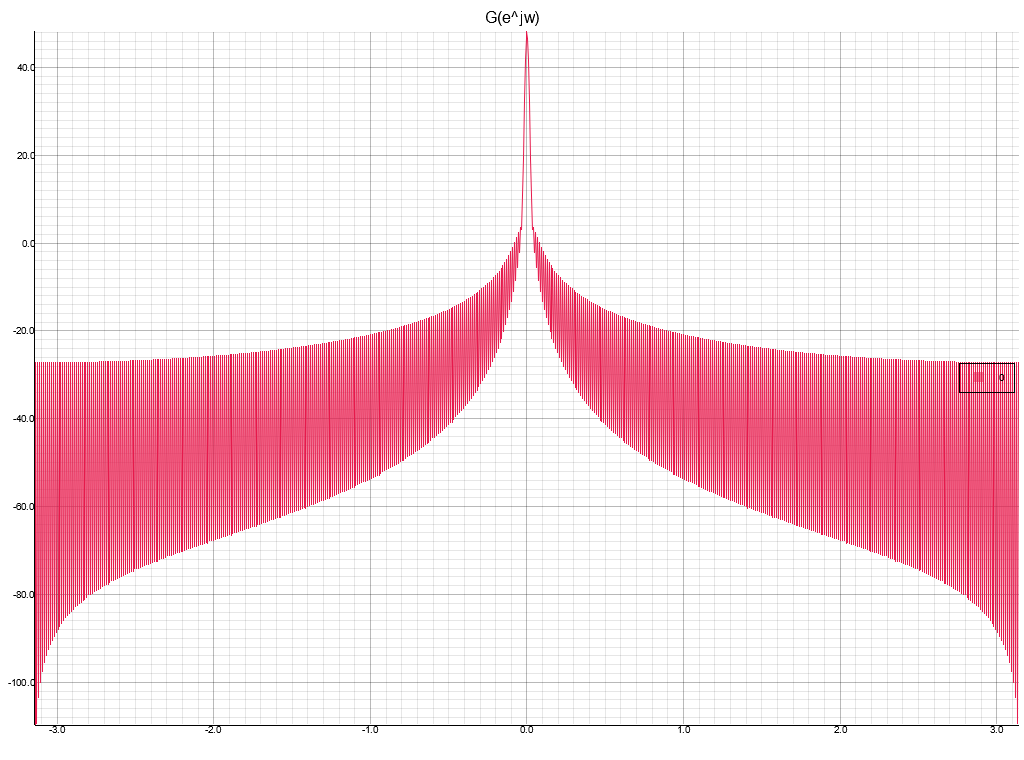
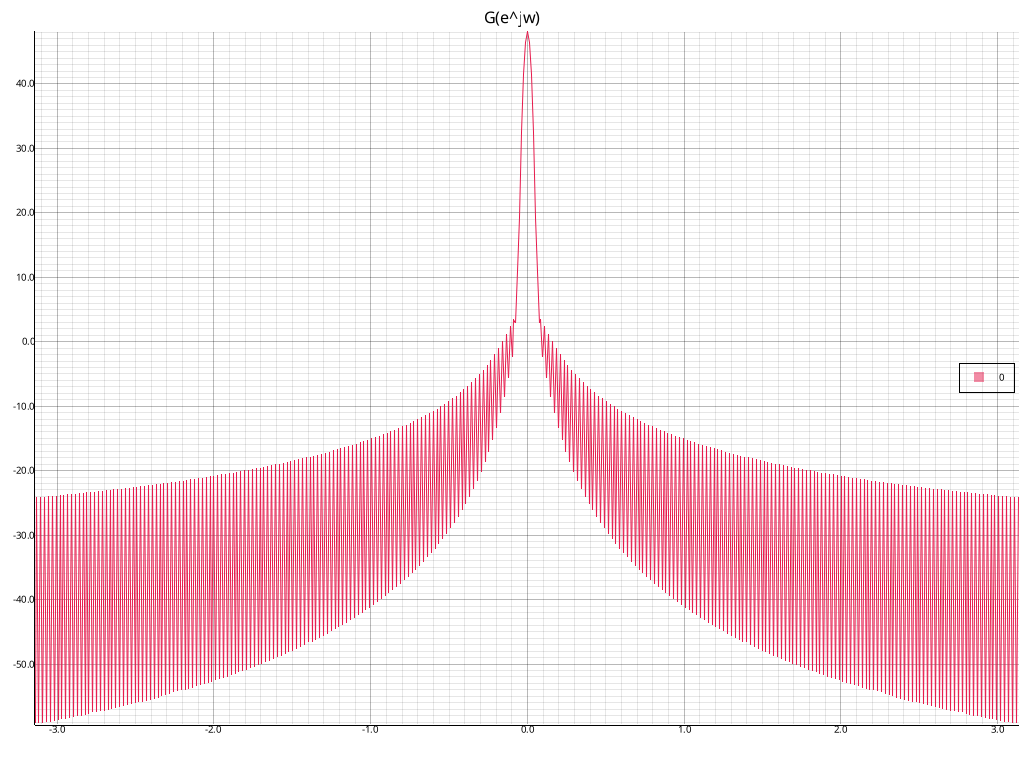
Add gaussian window

diff --git a/signal_processing-windows/src/windows/gaussian.rs b/signal_processing-windows/src/windows/gaussian.rs
@@ -1,10 +1,9 @@
+use array_trait::length::Length;
+use num_traits::{Float, FloatConst, Zero};
 
+use crate::{Shape, WindowFn};
 
-use array_math::ArrayOps;
-use num::{traits::FloatConst, Float};
-
-use crate::generators::window::{WindowGen, WindowRange};
-
+#[derive(Clone, Copy)]
 pub struct Gaussian<T>
 where
     T: Float
@@ -12,89 +11,43 @@ where
     pub sigma: T
 }
 
-impl<T, const N: usize> WindowGen<T, [T; N], ()> for Gaussian<T>
+impl<L, T> WindowFn<L> for Gaussian<T>
 where
+    L: Length<Elem = T> + ?Sized,
     T: Float + FloatConst
 {
-    type Output = [T; N];
+    type Functor = impl Fn(usize) -> T;
 
-    fn window_gen(&self, (): (), r: WindowRange) -> Self::Output
+    fn window_fn(self, len: L::Value, range: Shape) -> Self::Functor
     {
-        if N <= 1
-        {
-            return [T::one(); N]
-        }
-
-        let m = match r
-        {
-            WindowRange::Symmetric => N - 1,
-            WindowRange::Periodic => N,
-        };
+        let m = range.window_len(len);
 
         let one = T::one();
         let two = one + one;
         let half = two.recip();
-        core::array::from_fn(|i| {
-            let z = (T::from(i).unwrap() - half*T::from(N - 1).unwrap())/(self.sigma*half*T::from(m).unwrap());
-            (-half*z*z).exp()
-        })
-    }
-}
-impl<T> WindowGen<T, Vec<T>, usize> for Gaussian<T>
-where
-    T: Float + FloatConst
-{
-    type Output = Vec<T>;
 
-    fn window_gen(&self, n: usize, r: WindowRange) -> Self::Output
-    {
-        if n <= 1
-        {
-            return vec![T::one(); n]
+        move |i| {
+            if m.is_zero()
+            {
+                return T::one()
+            }
+
+            let z = (T::from(i).unwrap() - half*T::from(m - 1).unwrap())/(self.sigma*half*T::from(m).unwrap());
+            (-half*z*z).exp()
         }
-
-        let m = match r
-        {
-            WindowRange::Symmetric => n - 1,
-            WindowRange::Periodic => n,
-        };
-
-        let one = T::one();
-        let two = one + one;
-        let half = two.recip();
-        (0..n).map(|i| {
-            let z = (T::from(i).unwrap() - half*T::from(n - 1).unwrap())/(self.sigma*half*T::from(m).unwrap());
-            (-half*z*z).exp()
-        }).collect()
     }
 }
 
 #[cfg(test)]
 mod test
 {
-    use core::f64::consts::{PI, TAU};
-
-    use array_math::ArrayOps;
-    use linspace::Linspace;
-
-    use crate::{plot, gen::window::{WindowGen, WindowRange}, analysis::FreqZ, systems::Tf};
-
-    use super::Gaussian;
+    use crate::{tests, windows::Gaussian};
 
     #[test]
     fn test()
     {
-        const N: usize = 1024;
-        let w: [_; N/2] = Gaussian {sigma: 0.4}.window_gen((), WindowRange::Symmetric);
-        let n = (0.0..1.0).linspace_array();
-
-        plot::plot_curves("g(n/N)", "plots/windows/g_n_gaussian.png", [&n.zip(w)]).unwrap();
-
-        let (mut w_f, mut omega): ([_; N], _) = Tf::new(w, ()).freqz((), false);
-        omega.map_assign(|omega| (omega + PI) % TAU - PI);
-        w_f.rotate_right(N/2);
-        omega.rotate_right(N/2);
-        
-        plot::plot_curves("G(e^jw)", "plots/windows/g_f_gaussian.png", [&omega.zip(w_f.map(|w| 20.0*w.norm().log10()))]).unwrap();
+        tests::plot_window(Gaussian {
+            sigma: 0.4
+        })
     }
 }

diff --git a/signal_processing-windows/src/windows/mod.rs b/signal_processing-windows/src/windows/mod.rs
@@ -9,9 +9,9 @@ moddef::moddef!(
         confined_gaussian,
         confined_normal,
         dolph_chebyshev,
-        flattop,
-        /*gaussian,
-        hamming,
+        flat_top,
+        gaussian,
+        /*hamming,
         hann,
         kaiser,
         normal,